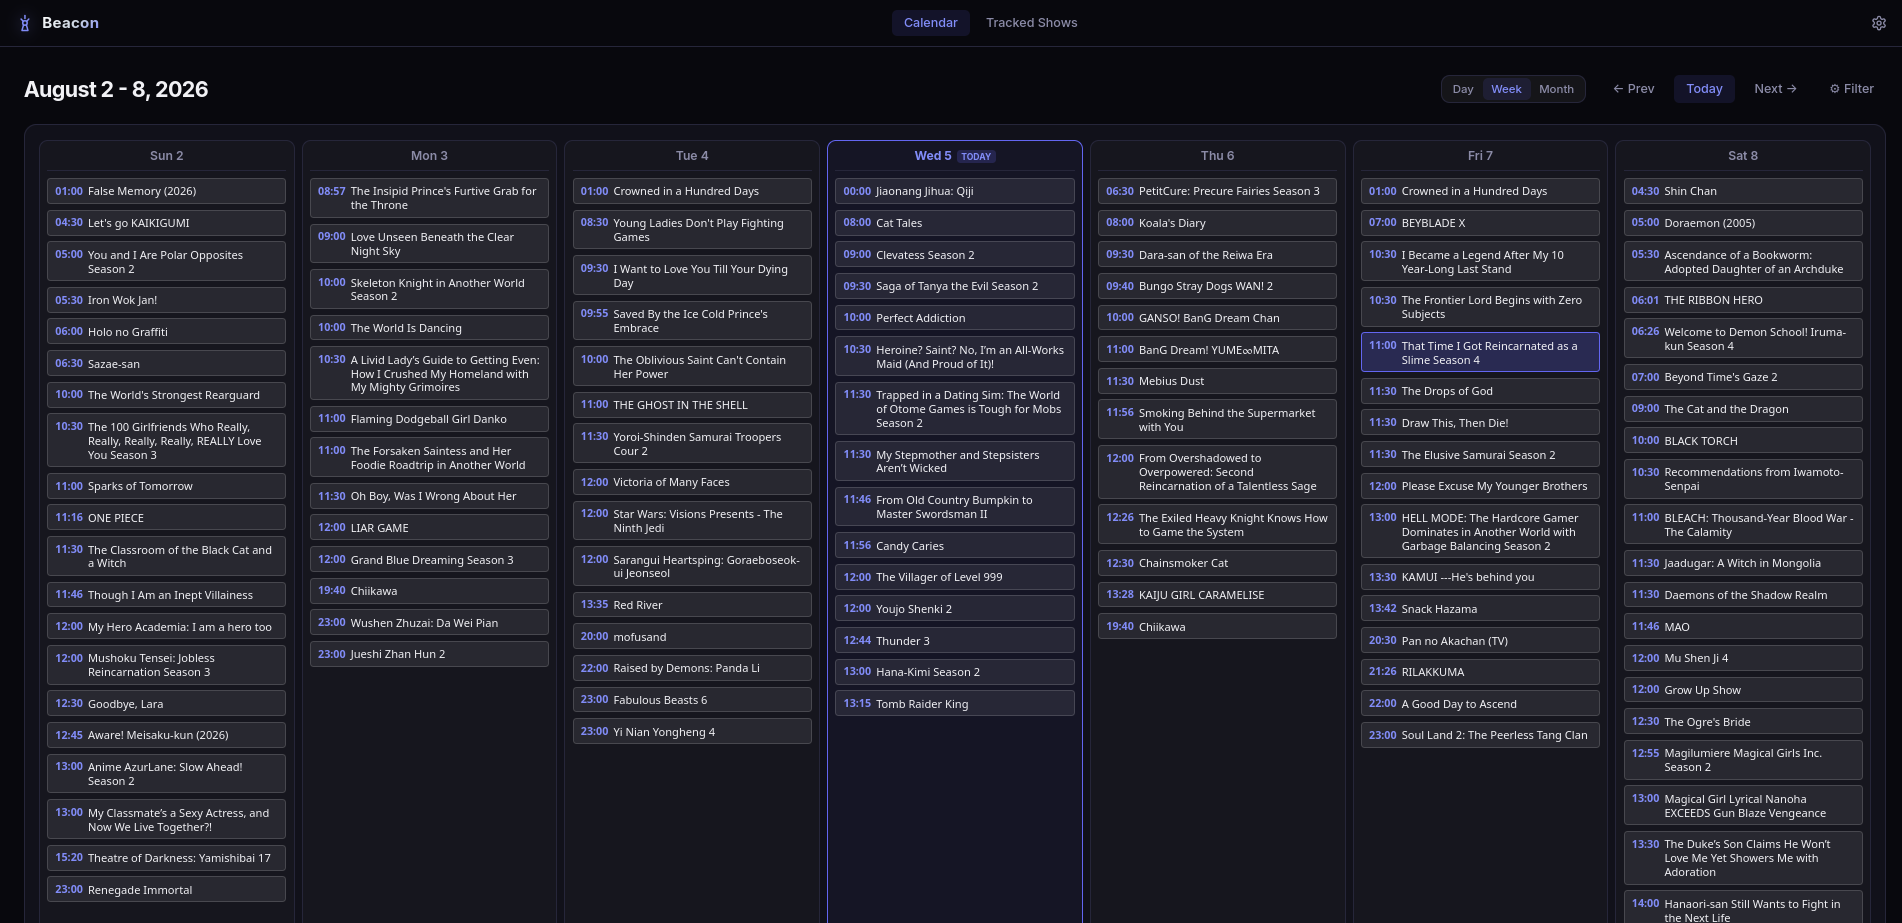
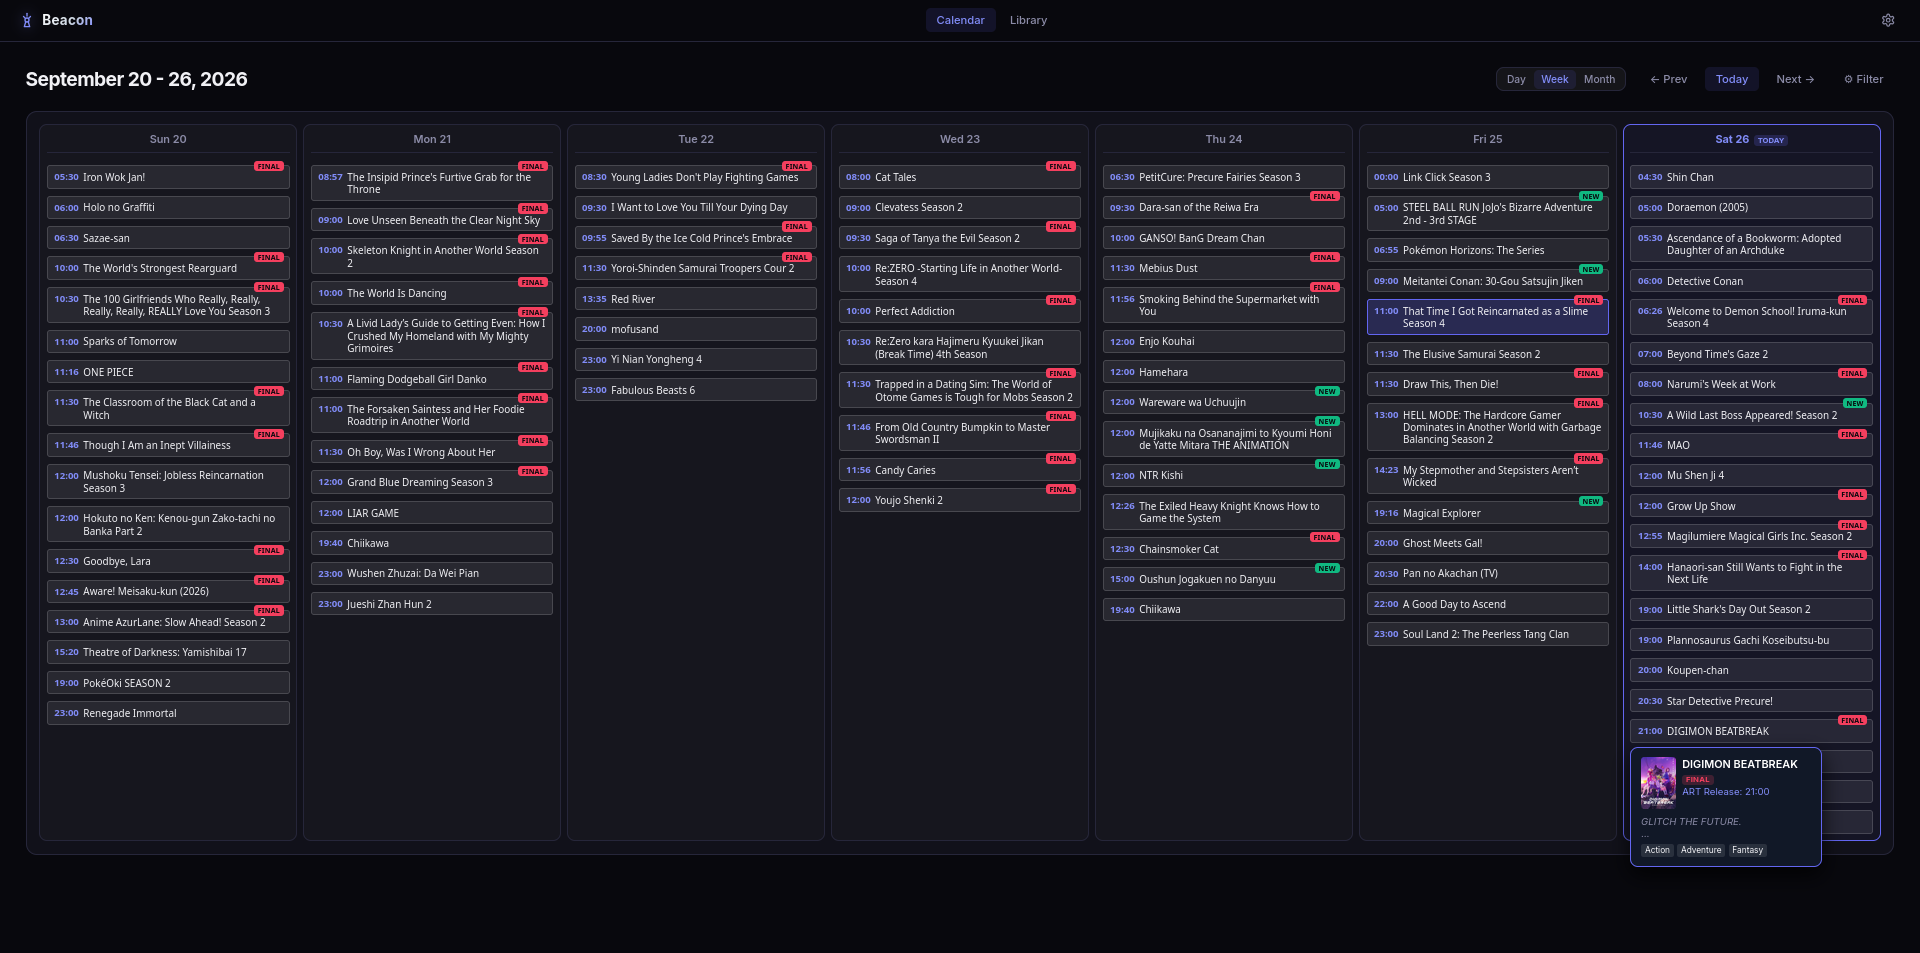
Chore: update readme pic/fix toast

diff --git a/frontend/src/components/CalendarView.css b/frontend/src/components/CalendarView.css
@@ -246,12 +246,15 @@
 .calendar-events-col {
   display: flex;
   flex-direction: column;
-  gap: 0.4rem;
+  /* Room for corner release tags, which sit 7px above each chip's edge. */
+  gap: 0.55rem;
+  padding-top: 7px;
   flex: 1;
   overflow: auto;
 }
 
 .calendar-event-chip {
+  position: relative;
   background: rgba(255, 255, 255, 0.08);
   border: 1px solid rgba(255, 255, 255, 0.15);
   border-radius: 4px;
@@ -567,6 +570,26 @@
 .release-badge.final {
   background: rgba(244, 63, 94, 0.2);
   color: var(--error);
+}
+
+/* On calendar chips the tag straddles the top-right edge, so it takes no
+   width from the title. */
+.calendar-event-chip > .release-badge {
+  position: absolute;
+  top: -7px;
+  right: 6px;
+  margin: 0;
+  font-size: 0.55rem;
+  line-height: 1.25;
+  color: var(--bg);
+}
+
+.calendar-event-chip > .release-badge.new {
+  background: var(--success);
+}
+
+.calendar-event-chip > .release-badge.final {
+  background: var(--error);
 }
 
 /* ── Show detail modal (two-column) ───────────────────────────── */

diff --git a/frontend/src/index.css b/frontend/src/index.css
@@ -569,25 +569,26 @@ body,
   font-size: 0.85rem;
   font-weight: 500;
   color: #fff;
-  box-shadow: 0 4px 20px rgba(0, 0, 0, 0.6);
+  box-shadow: 0 8px 28px rgba(0, 0, 0, 0.75);
   animation: toast-in 0.25s ease;
   border: 1px solid rgba(255, 255, 255, 0.08);
 }
 
+/* Opaque fills so toasts stand out from whatever is under them. */
 .toast-success {
-  background: rgba(16, 185, 129, 0.15);
-  border-color: rgba(16, 185, 129, 0.35);
-  color: #6ee7b7;
+  background: #064e3b;
+  border-color: #10b981;
+  color: #d1fae5;
 }
 .toast-error {
-  background: rgba(244, 63, 94, 0.15);
-  border-color: rgba(244, 63, 94, 0.35);
-  color: #fda4af;
+  background: #4c0519;
+  border-color: #f43f5e;
+  color: #ffe4e6;
 }
 .toast-info {
-  background: rgba(99, 102, 241, 0.15);
-  border-color: rgba(99, 102, 241, 0.35);
-  color: var(--accent-hi);
+  background: #1e1b4b;
+  border-color: #6366f1;
+  color: #e0e7ff;
 }
 
 @keyframes toast-in {
